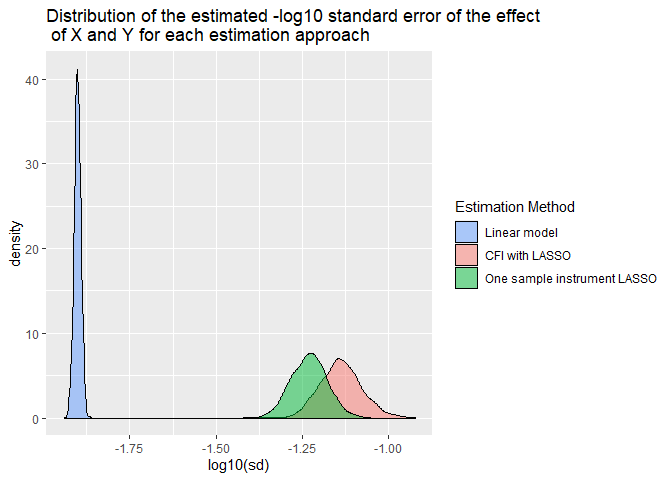
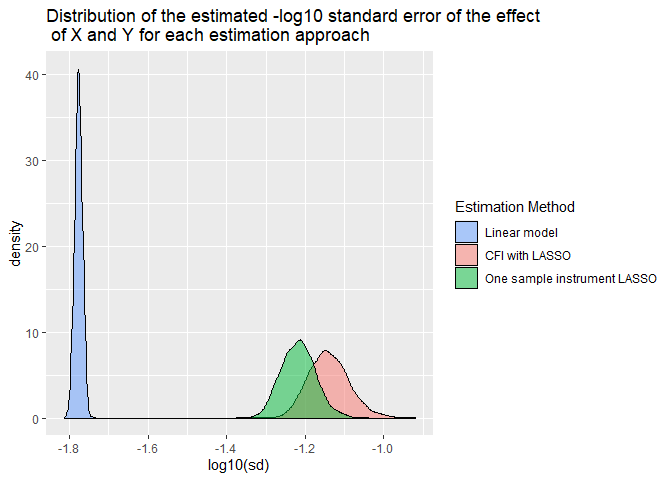
correcting README

diff --git a/README.md b/README.md
@@ -70,21 +70,22 @@ plot(X,Y,
      main="Bivariate plot of X and Y")
 
 res0 <- lm(Y~X)
-abline(a=0,b=summary(res0)$coef[2,1], col="black", lwd=2)
-abline(a=0,b=1, col="blue", lwd=2, lty=2)
+abline(a=0,b=summary(res0)$coef[2,1], col="blue", lwd=2)
+abline(a=0,b=1, col="green", lwd=2, lty=2)
 legend( x=-5, y=7,
         bty = "n",
         lty= c(1,1,1,2),
         legend=c("Confouded estimate" , "Truth"),
-        col= c("black",  "blue"),
+        col= c("blue","green"),
         lwd=rep(2,4))
 ```
 
-![](README_files/figure-gfm/sim-1.png)<!-- --> The plot above shows the
-observational association (black line) between X and Y. It is is heavily
-confounded by the hidden confounder H as the correlation between H and X
-is 0.69, and the correlation between H and Y is 0.72. The blue dashed
-line represent the true effect of X on Y.
+![](README_files/figure-gfm/sim-1.png)<!-- -->
+
+The plot above shows the observational association (blue line) between X
+and Y. It is is heavily confounded by the hidden confounder H as the
+correlation between H and X is 0.69, and the correlation between H and Y
+is 0.72. The blue dashed line represent the true effect of X on Y.
 
 ### Cross-fitting function
 
@@ -125,15 +126,15 @@ res2 <- ivreg(Y~X|CFI)
 
 
 plot(X,Y, main="Estimation of the effect of X on Y")
-abline(a=0,b=summary(res0)$coef[2,1], col="black", lwd=2)
+abline(a=0,b=summary(res0)$coef[2,1], col="blue", lwd=2)
 abline(a=0,b=summary(res1)$coef[2,1], col="red", lwd=2)
-abline(a=0,b=summary(res2)$coef[2,1], col="blue", lwd=2)
-abline(a=0,b=1, col="blue", lwd=4, lty=2)
+abline(a=0,b=summary(res2)$coef[2,1], col="green", lwd=2)
+abline(a=0,b=1, col="green", lwd=4, lty=2)
 legend( x=-5, y=7,
         bty = "n",
         lty= c(1,1,1,2),
         legend=c("Linear model", "One sample instrument LASSO","CFI with LASSO" , "Truth"),
-        col= c("black", "red","blue", "blue"),
+        col= c("blue", "red","green", "green"),
         lwd=rep(2,4))
 ```
 
@@ -146,14 +147,14 @@ legend( x=-5, y=7,
 ```
 
 The plot above shows the estimates of the effect of X on Y using
-different appraoches. CFI with LASSO (solid blue line) is the closest to
-the true effect of X on Y. One sample instrument with LASSO (solid red
-line) is biased towards the confounded estimate based on linear model
-(solid black line).
+different appraoches. CFI with LASSO (solid green line) is the closest
+to the true effect of X on Y. One sample instrument with LASSO (solid
+red line) is biased towards the confounded estimate based on linear
+model (solid blue line).
 
 ### Some larger simulations
 
-Here we simulate 2000 data sets and on each of them wethe effect of X on
+Here we simulate 3000 data sets and on each of them wethe effect of X on
 Y (simulation parameters n=2000, p=100, np\_act=5,beta=0.08,h2=0.1)
 using CFI, one sample instrument LASSO estimate, and a standard linear
 model. The function used for the simulations can be found at the end of
@@ -165,13 +166,9 @@ Clearly, LM and one sample IV Lasso are overconfident and biased. In the
 plot below, we see that the linear model and On sample instrument LASSO
 have smaller standard errors than CFI with LASSO, which implies
 overconfidence in the significance of the estimated
-    effect.
+effect.
 
-![](README_files/figure-gfm/unnamed-chunk-4-1.png)<!-- -->
-
-    ## Warning: Removed 2000 rows containing non-finite values (stat_density).
-
-![](README_files/figure-gfm/unnamed-chunk-4-2.png)<!-- -->
+![](README_files/figure-gfm/unnamed-chunk-4-1.png)<!-- -->![](README_files/figure-gfm/unnamed-chunk-4-2.png)<!-- -->
 
 ## Simulation function
 
